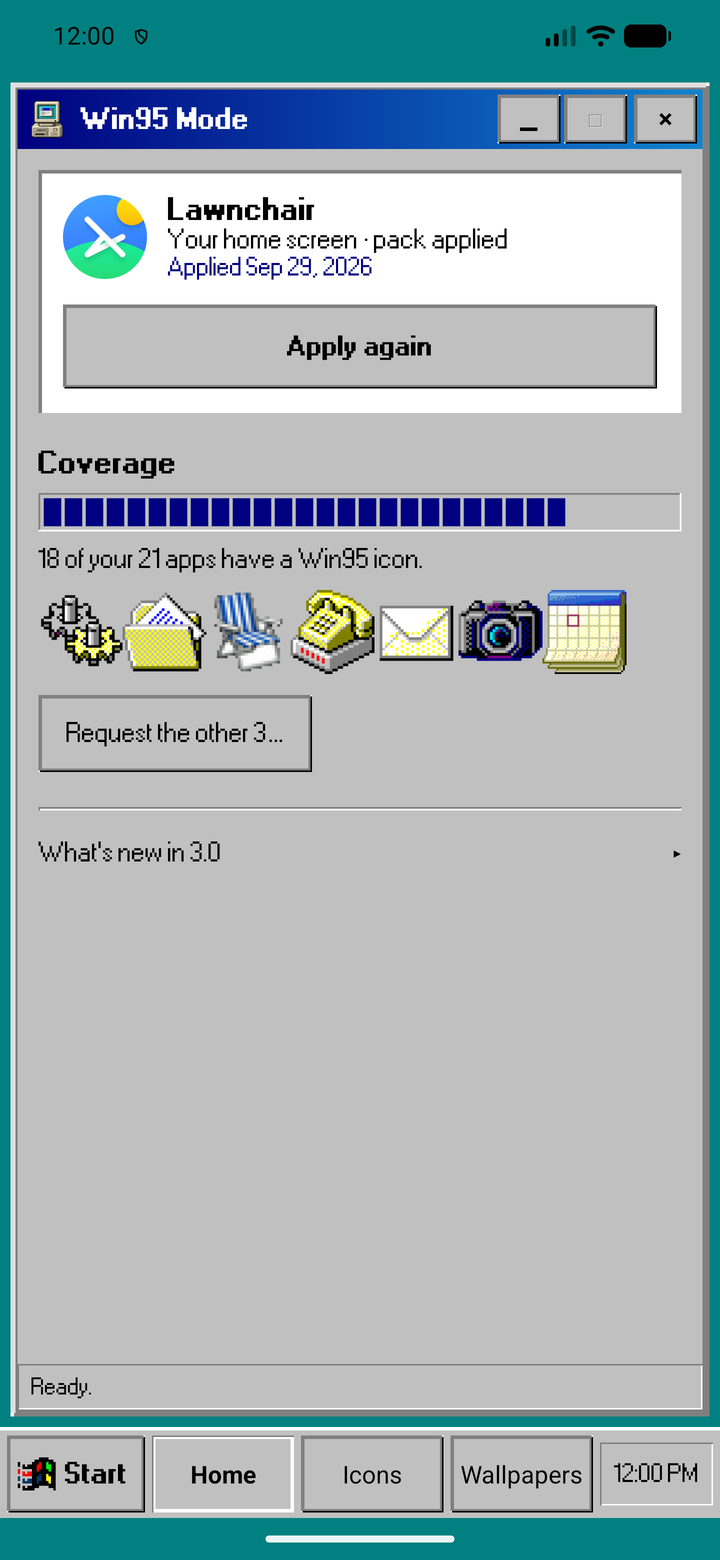
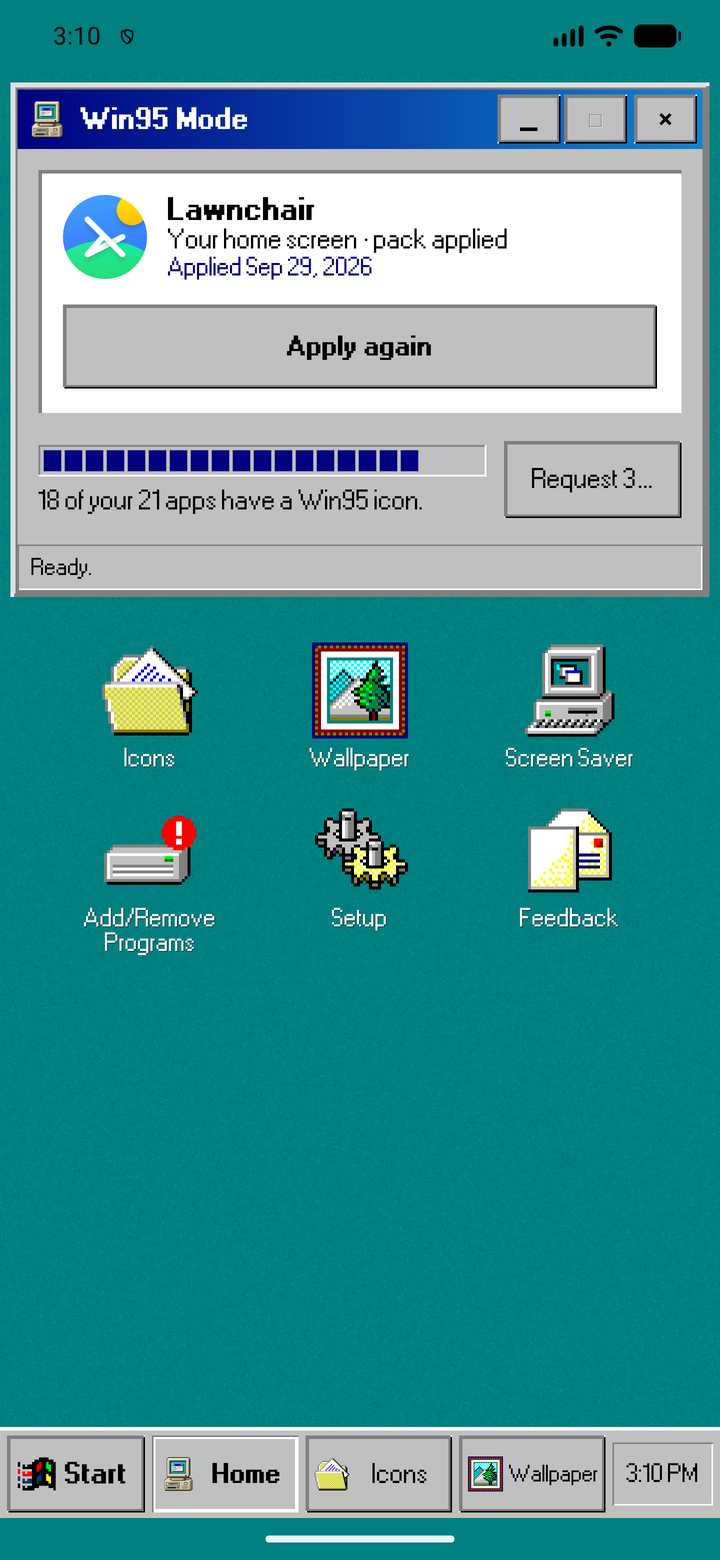
feat: Home is a small window on the Win95 desktop
The monitor preview stretched to fill the screen and read as filler.
Home's window now ends where its content does (status card and one
coverage line) and the rest of the screen is the desktop: the chosen
wallpaper, or plain teal, with six desktop shortcuts in white-labelled
Win95 style for Icons, Wallpaper, Screen Saver, Add/Remove Programs,
Setup and Feedback. The shortcuts sit where the eye lands, so nobody
needs to discover the taskbar to get around, and the Starfield has a
front door as Screen Saver. Icons and Wallpapers stay maximized.

The shortcut art is on the 32-cell grid, so it's drawn at a multiple
of 32px rather than 96px: crisp at about 57dp instead of 43dp on a
1080px-wide phone.

diff --git a/app/src/main/java/com/win95mode/app/MainActivity.kt b/app/src/main/java/com/win95mode/app/MainActivity.kt
@@ -73,6 +73,8 @@ class MainActivity : AppCompatActivity() {
         setupChrome()
         setupIcons()
         setupWallpapers()
+        buildDesktop()
+        renderDesktopWallpaper()
         showPage(page)
         // Setting a wallpaper recreates the activity (Android re-colors apps), so keep its message.
         savedInstanceState?.getString("status")?.let { status.text = it }
@@ -84,6 +86,7 @@ class MainActivity : AppCompatActivity() {
 
     override fun onResume() {
         super.onResume()
+        renderDesktopWallpaper()
         // Apps and launchers change while we're away, so both are re-read on every return.
         renderHome()
         Thread {
@@ -173,7 +176,16 @@ class MainActivity : AppCompatActivity() {
                 }
             }
 
-        if (target == Page.HOME) catalog?.let(::renderMonitor)
+        val home = target == Page.HOME
+        listOf(R.id.window_frame, R.id.window_pages).forEach { id ->
+            val v = findViewById<View>(id)
+            (v.layoutParams as LinearLayout.LayoutParams).apply {
+                height = if (home) LinearLayout.LayoutParams.WRAP_CONTENT else 0
+                weight = if (home) 0f else 1f
+            }
+            v.requestLayout()
+        }
+        findViewById<View>(R.id.desktop).visibility = if (home) View.VISIBLE else View.GONE
         status.text = when (target) {
             Page.HOME -> getString(R.string.status_ready)
             Page.ICONS -> iconsStatus()
@@ -215,8 +227,8 @@ class MainActivity : AppCompatActivity() {
                 }
             })
         }
-        item(R.drawable.ic_disk, R.string.start_setup) { startActivity(Intent(this, SetupActivity::class.java)) }
-        item(R.drawable.ic_files, R.string.start_request) { showRequestDialog() }
+        item(R.drawable.ic_settings, R.string.start_setup) { startActivity(Intent(this, SetupActivity::class.java)) }
+        item(R.drawable.ic_disk, R.string.start_request) { showRequestDialog() }
         item(R.drawable.ic_mail, R.string.start_feedback) { openFeedback() }
         item(R.drawable.ic_notes, R.string.start_whats_new) {
             Win95.messageBox(this, getString(R.string.whats_new_title), getString(R.string.whats_new_body))
@@ -229,6 +241,65 @@ class MainActivity : AppCompatActivity() {
             }
         })
         item(R.drawable.ic_my_computer, R.string.start_shutdown) { finish() }
+    }
+
+    // --- Desktop ---
+
+    private fun buildDesktop() {
+        val grid = findViewById<android.widget.GridLayout>(R.id.desktop_icons)
+        val cellW = ((resources.displayMetrics.widthPixels - 24 * density) / 3).toInt().coerceAtMost(Win95.dp(this, 120))
+        // Files, Photos, Settings and Mail are drawn on the 32-cell grid.
+        val iconPx = IconArt.crispPx(this, 58f, maxPx = cellW - Win95.dp(this, 16), grid = 32)
+        fun shortcut(icon: Int, label: Int, action: () -> Unit) {
+            grid.addView(LinearLayout(this).apply {
+                orientation = LinearLayout.VERTICAL
+                gravity = android.view.Gravity.CENTER_HORIZONTAL
+                layoutParams = android.widget.GridLayout.LayoutParams().apply { width = cellW }
+                setPadding(Win95.dp(context, 4), Win95.dp(context, 8), Win95.dp(context, 4), Win95.dp(context, 10))
+                setBackgroundResource(android.R.drawable.list_selector_background)
+                contentDescription = getString(label)
+                setOnClickListener { action() }
+                addView(ImageView(context).apply {
+                    setImageBitmap(IconArt.icon(resources, icon, iconPx))
+                    layoutParams = LinearLayout.LayoutParams(iconPx, iconPx)
+                    importantForAccessibility = View.IMPORTANT_FOR_ACCESSIBILITY_NO
+                })
+                // White label with a dark edge, as desktop icon text on the Win95 desktop.
+                addView(TextView(context).apply {
+                    setText(label)
+                    setTextColor(getColor(R.color.white))
+                    setShadowLayer(0.01f, 1f, 1f, getColor(R.color.black))
+                    textSize = 13f
+                    gravity = android.view.Gravity.CENTER
+                    maxLines = 2
+                    setPadding(0, Win95.dp(context, 4), 0, 0)
+                    importantForAccessibility = View.IMPORTANT_FOR_ACCESSIBILITY_NO
+                })
+            })
+        }
+        shortcut(R.drawable.ic_files, R.string.desk_icons) { showPage(Page.ICONS) }
+        shortcut(R.drawable.ic_photos, R.string.desk_wallpaper) { showPage(Page.WALLPAPERS) }
+        shortcut(R.drawable.ic_my_computer, R.string.desk_screensaver) {
+            if (!Wallpapers.openStarfield(this)) {
+                Win95.messageBox(this, getString(R.string.desk_screensaver), getString(R.string.live_wallpaper_unavailable), warning = true)
+            }
+        }
+        shortcut(R.drawable.ic_disk, R.string.add_remove_programs) { showRequestDialog() }
+        shortcut(R.drawable.ic_settings, R.string.desk_setup) { startActivity(Intent(this, SetupActivity::class.java)) }
+        shortcut(R.drawable.ic_mail, R.string.desk_feedback) { openFeedback() }
+    }
+
+    private var desktopWallpaperKey: String? = "unset"
+
+    /** The chosen wallpaper behind everything, as on a Win95 desktop; plain teal until one is set. */
+    private fun renderDesktopWallpaper() {
+        val key = Prefs.wallpaper(this)
+        if (key == desktopWallpaperKey) return
+        desktopWallpaperKey = key
+        val view = findViewById<ImageView>(R.id.desktop_wallpaper)
+        val wallpaper = Wallpapers.all.firstOrNull { it.key == key }
+        if (wallpaper == null) view.setImageDrawable(null)
+        else view.setImageBitmap(Wallpapers.thumbnail(this, wallpaper.resId, resources.displayMetrics.widthPixels / 2))
     }
 
     // --- Home ---
@@ -295,71 +366,6 @@ class MainActivity : AppCompatActivity() {
             text = getString(R.string.request_count, c.unthemedInstalled.size)
             setOnClickListener { showRequestDialog() }
         }
-        renderMonitor(c)
-    }
-
-    /** The monitor on Home: the current wallpaper with this phone's apps laid out
-     *  as desktop icons, as many rows as the screen area fits. */
-    private fun renderMonitor(c: IconCatalog) {
-        val screen = findViewById<View>(R.id.home_monitor_screen)
-        val grid = findViewById<LinearLayout>(R.id.home_monitor_icons)
-        val wallpaper = findViewById<ImageView>(R.id.home_monitor_wallpaper)
-        screen.setOnClickListener { showPage(Page.WALLPAPERS) }
-        screen.post {
-            val w = screen.width - screen.paddingLeft - screen.paddingRight
-            val h = screen.height - screen.paddingTop - screen.paddingBottom
-            if (w <= 0 || h <= 0) return@post
-
-            val current = Wallpapers.all.firstOrNull { it.key == Prefs.wallpaper(this) }
-            if (current == null) wallpaper.setImageDrawable(null)
-            else wallpaper.setImageBitmap(Wallpapers.thumbnail(this, current.resId, w))
-
-            grid.removeAllViews()
-            // Too little room (landscape, huge text): just the wallpaper.
-            if (h < Win95.dp(this, 70)) return@post
-            val columns = 4
-            val cellW = w / columns
-            val iconPx = IconArt.crispPx(this, 44f, maxPx = cellW - Win95.dp(this, 12))
-            val rowH = iconPx + Win95.dp(this, 26)
-            val rows = ((h - grid.paddingTop) / rowH).coerceAtLeast(1)
-            c.yourIcons.take(columns * rows).chunked(columns).forEach { rowIcons ->
-                grid.addView(LinearLayout(this).apply {
-                    orientation = LinearLayout.HORIZONTAL
-                    rowIcons.forEach { icon -> addView(desktopIcon(icon, cellW, iconPx)) }
-                })
-            }
-        }
-    }
-
-    private fun desktopIcon(icon: PackIcon, width: Int, iconPx: Int) = LinearLayout(this).apply {
-        orientation = LinearLayout.VERTICAL
-        gravity = android.view.Gravity.CENTER_HORIZONTAL
-        layoutParams = LinearLayout.LayoutParams(width, LinearLayout.LayoutParams.WRAP_CONTENT)
-        setPadding(0, Win95.dp(context, 2), 0, Win95.dp(context, 4))
-        contentDescription = icon.label
-        setOnClickListener {
-            iconTab = IconTab.YOURS
-            buildIconTabs()
-            renderIcons()
-            showPage(Page.ICONS)
-        }
-        addView(ImageView(context).apply {
-            setImageBitmap(IconArt.icon(resources, icon.resId, iconPx))
-            layoutParams = LinearLayout.LayoutParams(iconPx, iconPx)
-            importantForAccessibility = View.IMPORTANT_FOR_ACCESSIBILITY_NO
-        })
-        // White label with a dark edge, like desktop icon text on the teal desktop.
-        addView(TextView(context).apply {
-            text = icon.label
-            setTextColor(getColor(R.color.white))
-            setShadowLayer(0.01f, 1f, 1f, getColor(R.color.black))
-            textSize = 11f
-            maxLines = 1
-            ellipsize = android.text.TextUtils.TruncateAt.END
-            gravity = android.view.Gravity.CENTER
-            setPadding(Win95.dp(context, 2), 0, Win95.dp(context, 2), 0)
-            importantForAccessibility = View.IMPORTANT_FOR_ACCESSIBILITY_NO
-        })
     }
 
     private fun applied(message: String) {
@@ -554,7 +560,7 @@ class MainActivity : AppCompatActivity() {
                 if (ok) {
                     status.setText(R.string.status_wallpaper_set)
                     Win95.confirmHaptic(status)
-                    catalog?.let(::renderMonitor)
+                    renderDesktopWallpaper()
                     @Suppress("NotifyDataSetChanged")
                     findViewById<RecyclerView>(R.id.wallpapers_list).adapter?.notifyDataSetChanged()
                 } else {

diff --git a/app/src/main/java/com/win95mode/app/IconArt.kt b/app/src/main/java/com/win95mode/app/IconArt.kt
@@ -17,10 +17,12 @@ object IconArt {
         override fun sizeOf(key: String, value: Bitmap) = value.byteCount
     }
 
-    fun crispPx(context: Context, targetDp: Float, maxPx: Int = Int.MAX_VALUE): Int {
-        var k = (targetDp * context.resources.displayMetrics.density / 96f).roundToInt().coerceAtLeast(1)
-        while (k > 1 && k * 96 > maxPx) k--
-        return k * 96
+    /** A size near [targetDp] that is a multiple of [grid] px. 96 suits every icon;
+     *  32 is finer and suits a known set drawn on the 32-cell grid. */
+    fun crispPx(context: Context, targetDp: Float, maxPx: Int = Int.MAX_VALUE, grid: Int = 96): Int {
+        var k = (targetDp * context.resources.displayMetrics.density / grid).roundToInt().coerceAtLeast(1)
+        while (k > 1 && k * grid > maxPx) k--
+        return k * grid
     }
 
     fun icon(resources: Resources, resId: Int, px: Int): Bitmap {
